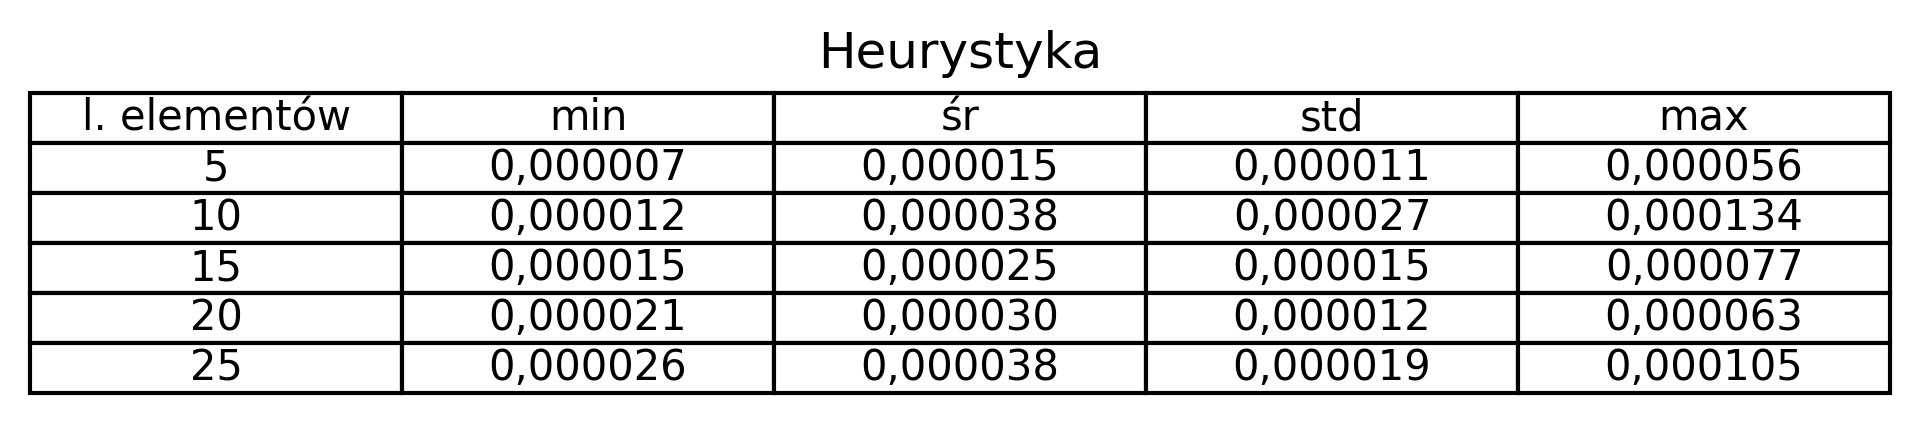
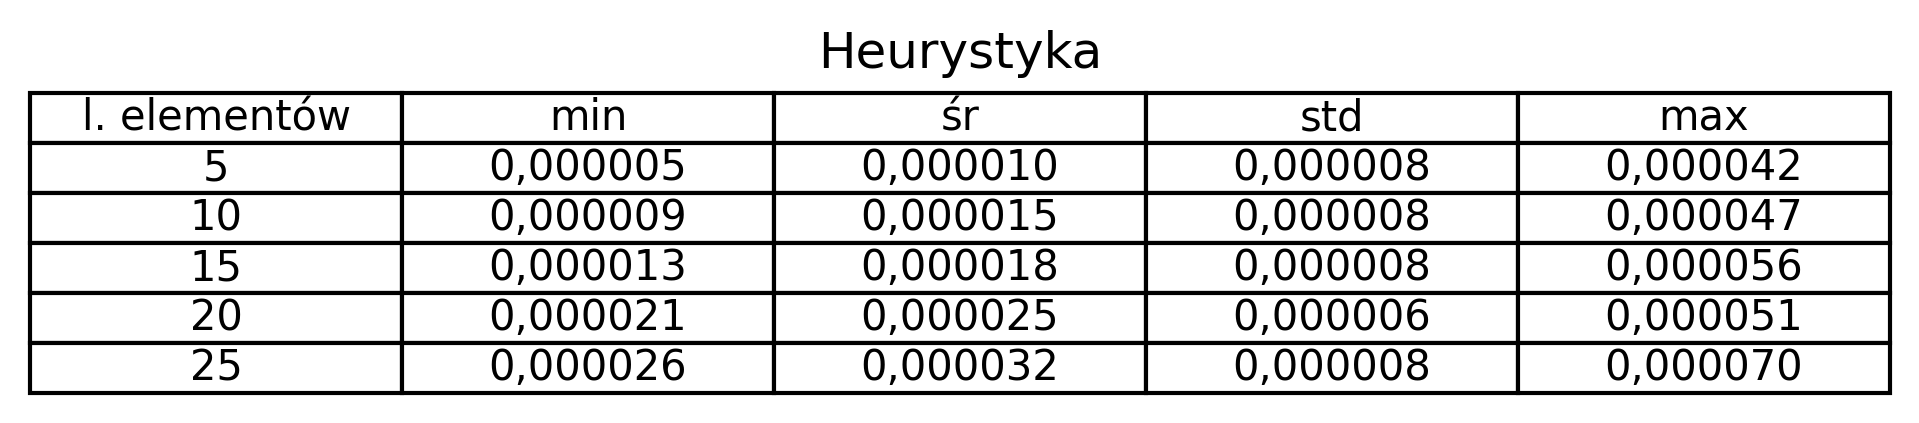
fixed parallelism for table generation

diff --git a/cw1/knapsack.py b/cw1/knapsack.py
@@ -1,6 +1,6 @@
 import heapq
-import timeit
-from multiprocessing import Pool
+import time
+from concurrent.futures import ProcessPoolExecutor
 
 import numpy as np
 import pandas as pd
@@ -66,9 +66,17 @@ def run_simulation(element_count):
     M = np.sum(weights) / 2
     values = np.random.randint(1, 2000, element_count)
 
-    time_h = timeit.timeit(lambda: knapsack_heuristic(weights, values, M), number=1)
+    time_start = time.process_time()
+    knapsack_heuristic(weights, values, M)
+    time_end = time.process_time()
 
-    time_bf = timeit.timeit(lambda: knapsack_brute_force(weights, values, M), number=1)
+    time_h = time_end - time_start
+
+    time_start = time.process_time()
+    knapsack_brute_force(weights, values, M)
+    time_end = time.process_time()
+
+    time_bf = time_end - time_start
 
     return time_h, time_bf
 
@@ -121,11 +129,13 @@ def create_tables(element_counts, tries):
         times_h = []
         times_bf = []
 
-        with Pool(processes=10) as pool:
-            results = pool.map(run_simulation, [element_count] * tries)
-            for result in results:
-                times_h.append(result[0])
-                times_bf.append(result[1])
+        with ProcessPoolExecutor(max_workers=3) as executor:
+            futures = [
+                executor.submit(run_simulation, element_count) for _ in range(tries)
+            ]
+            for future in futures:
+                times_h.append(future.result()[0])
+                times_bf.append(future.result()[1])
 
         stats_h["min"].append(format_float_with_comma(np.min(times_h)))
         stats_h["śr"].append(format_float_with_comma(np.mean(times_h)))
